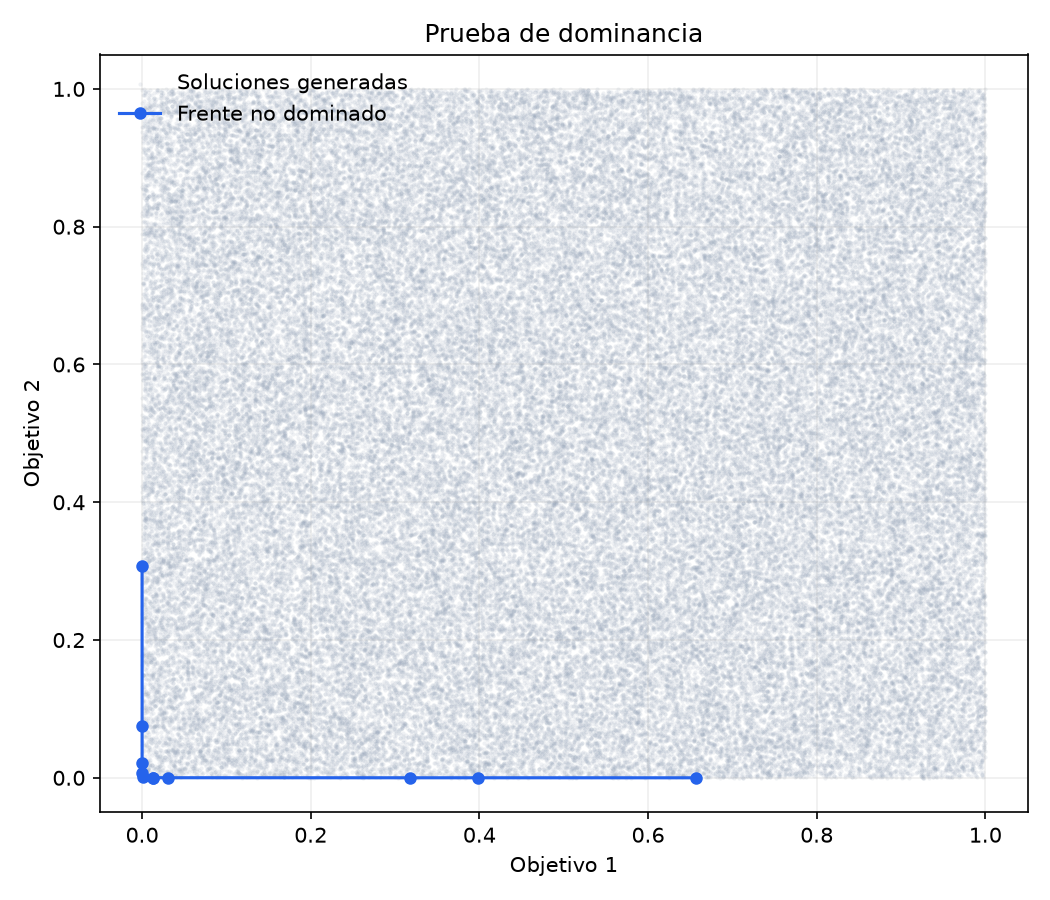
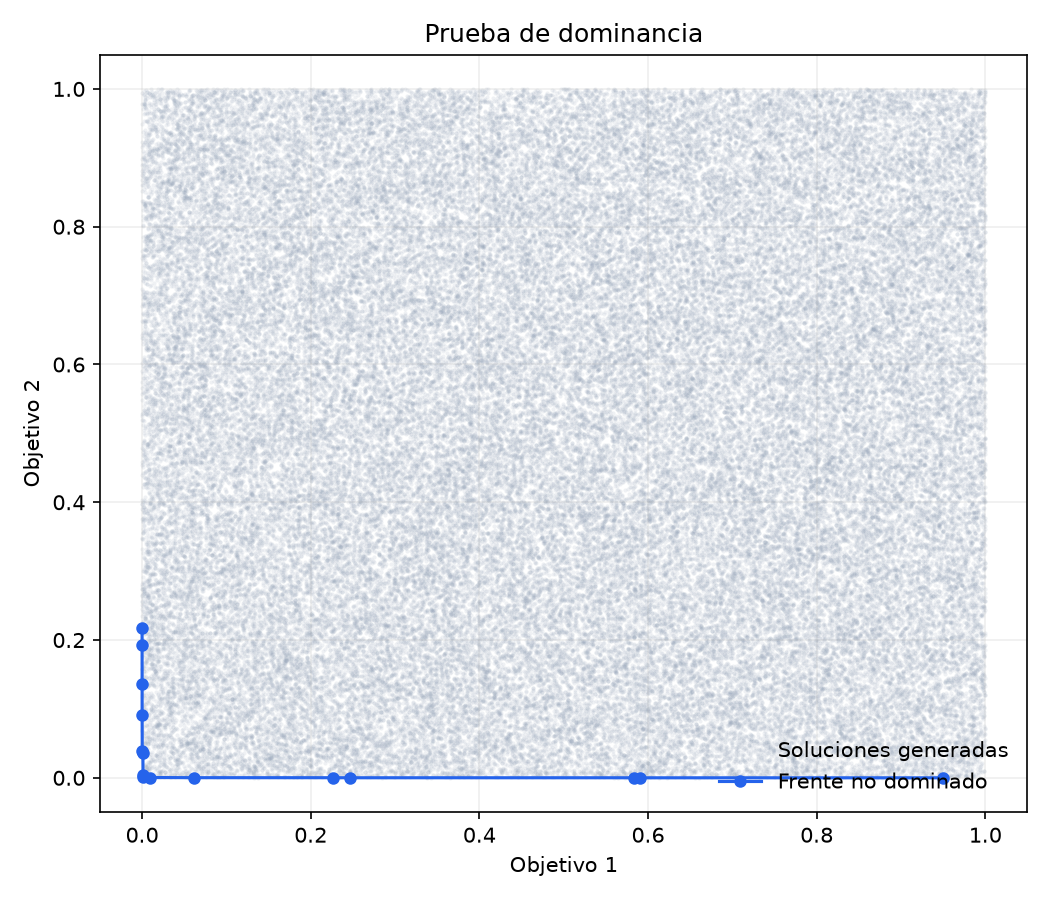
shaffer

Changed region(s): [[0.1219, 0.0622, 0.9752, 0.9022]]

diff --git a/schaffer.py b/schaffer.py
@@ -1,0 +1,88 @@
+import random
+import matplotlib.pyplot as plt
+
+
+def dominancia(a, b):
+    bandera = 0
+    i = 0
+    while i < len(a) and a[i] <= b[i]:
+        if a[i] < b[i]:  # minimizar
+            bandera = 1  # mejor en algun objetivo
+        i += 1
+
+    if bandera == 1 and i >= len(a):  # aqui se cumple porque i termina en i=len(a)
+        return True
+    else:
+        return False  # compare
+
+
+def agrega(a, arreglo):
+    # los dos primeros valores (f1, f2) son los objetivos que se comparan;
+    # el resto (x) es informacion extra que solo viaja pegada
+    dominado = False
+    for x in range(len(a)):
+        if dominancia(a[x][:2], arreglo[:2]):
+            dominado = True
+
+    if not dominado:
+        x = 0
+        while x < len(a):
+            if dominancia(arreglo[:2], a[x][:2]):
+                a.pop(x)
+            else:
+                x += 1
+        a.append(list(arreglo))
+
+
+def schaffer(x):
+    f1 = x ** 2
+    f2 = (x - 2) ** 2
+    return f1, f2
+
+
+if __name__ == "__main__":
+    print("Prueba de dominancia - funcion de Schaffer")
+    archivo = []
+    todos = []
+    for _ in range(100000):
+        x = random.uniform(-1000, 1000)
+        f1, f2 = schaffer(x)
+        tempsol = [f1, f2, x]
+        todos.append(tempsol)
+        agrega(archivo, tempsol)
+
+    for sol in archivo:
+        print(f"f1={sol[0]:.4f}  f2={sol[1]:.4f}  x={sol[2]:.4f}")
+
+    archivo.sort(key=lambda p: p[0])
+
+    fig, (ax1, ax2) = plt.subplots(1, 2, figsize=(13, 6))
+
+    for ax in (ax1, ax2):
+        ax.scatter(
+            [p[0] for p in todos], [p[1] for p in todos],
+            s=4, alpha=0.15, color="#94a3b8", linewidths=0, label="Soluciones generadas",
+        )
+        ax.plot(
+            [p[0] for p in archivo], [p[1] for p in archivo],
+            color="#2563eb", linewidth=1.5, marker="o", markersize=5,
+            label="Frente no dominado",
+        )
+        ax.set_xlabel("f1(x) = x^2")
+        ax.set_ylabel("f2(x) = (x-2)^2")
+        ax.grid(True, alpha=0.2)
+
+    ax1.set_title("Vista completa (x entre -1000 y 1000)")
+    ax1.legend(frameon=False)
+
+    ax2.set_xlim(-0.3, 4.3)
+    ax2.set_ylim(-0.3, 4.3)
+    for sol in archivo[::max(1, len(archivo) // 8)]:
+        ax2.annotate(f"x={sol[2]:.2f}", (sol[0], sol[1]),
+                     textcoords="offset points", xytext=(6, 6), fontsize=8, color="#1e3a8a")
+    ax2.set_title("Zoom al frente (donde vive x en [0, 2])")
+
+    fig.suptitle("Prueba de dominancia - Schaffer")
+    fig.tight_layout()
+    fig.savefig("schaffer.png", dpi=150)
+    plt.show()
